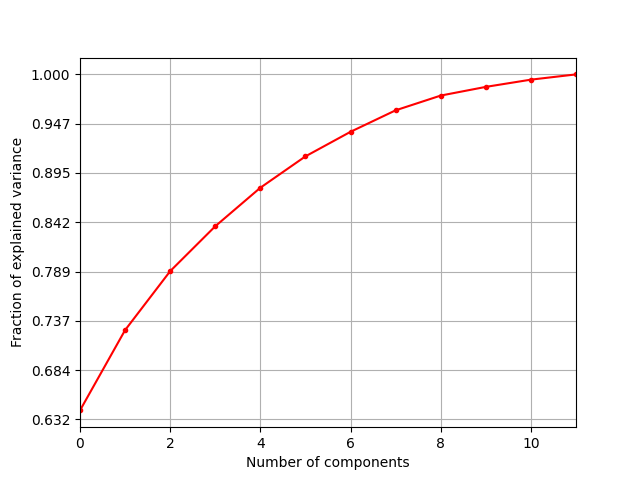
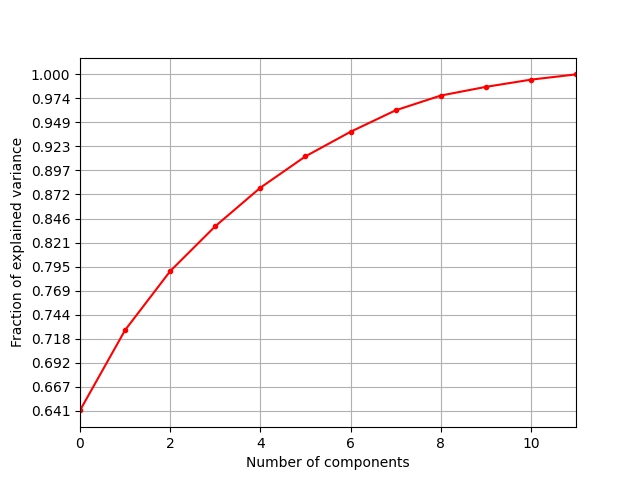
f

diff --git a/Project/Distribution_Plot/distributions.py b/Project/Distribution_Plot/distributions.py
@@ -230,10 +230,12 @@ def centerData(D):
     return DC
 
 def PCA_plot(D):
-    # Calcola i valori propri della matrice di covarianza
-    DC = centerData(D)
-    C = createCenteredCov(DC)
-    eigenvalues, _ = numpy.linalg.eigh(C)
+    
+    N = D.shape[1] 
+    mu = mcol(D.mean(1)) 
+    DC = D - mu  
+    C = numpy.dot(DC, DC.T)/N
+    eigenvalues = numpy.linalg.eigh(C)[0]
     
     # Ordina i valori propri in ordine decrescente
     eigenvalues = eigenvalues[::-1]
@@ -241,7 +243,7 @@ def PCA_plot(D):
     # Calcola la varianza spiegata per ogni componente principale
     explained_variance = eigenvalues / numpy.sum(eigenvalues)
     y_min, y_max = plt.ylim()
-    y_values = numpy.linspace(y_min, y_max, 20)
+    y_values = numpy.linspace(y_min, y_max, 40)
     plt.yticks(y_values)
     plt.xlim(0,11)
     # Creare un grafico della varianza spiegata
